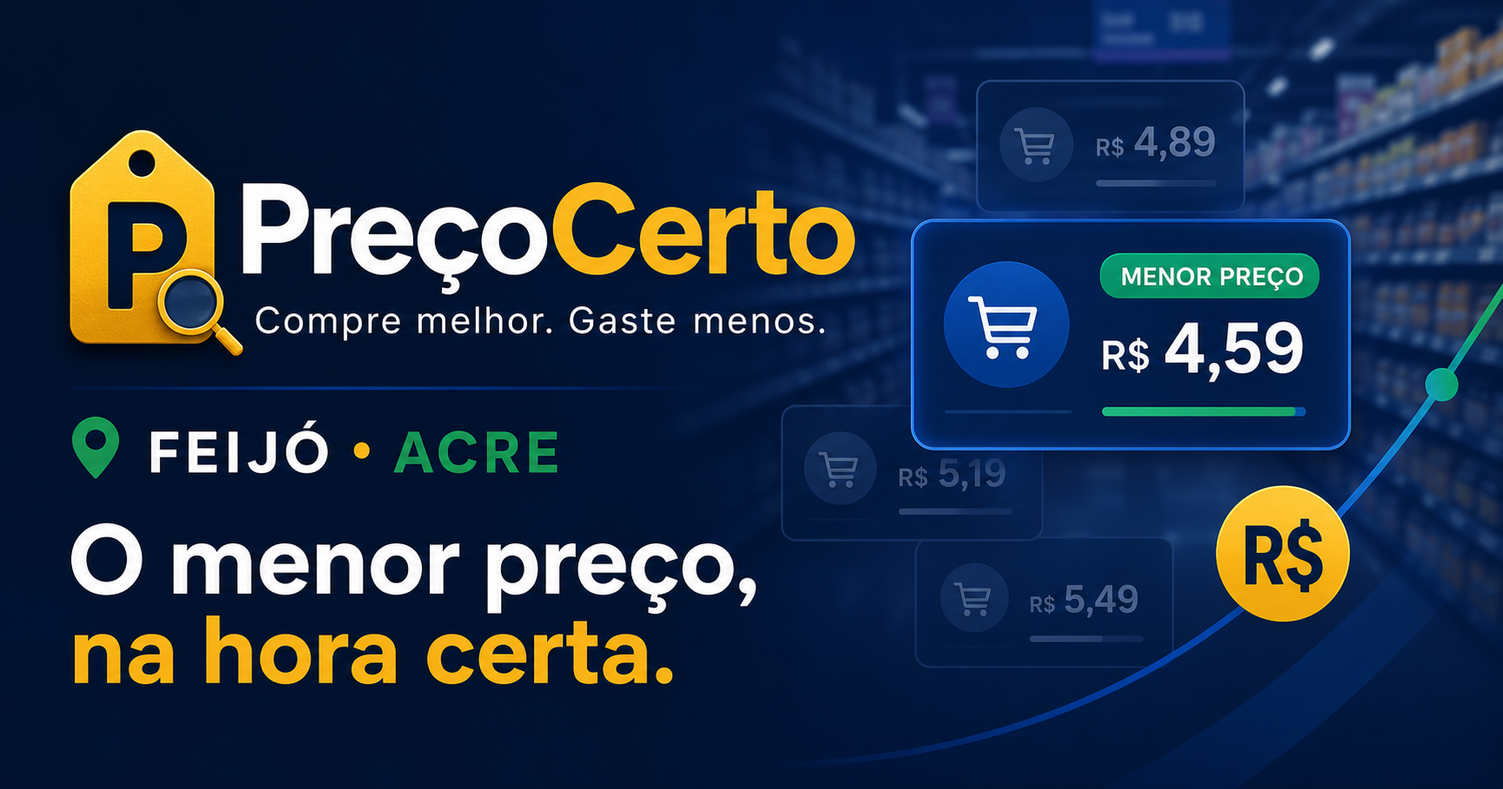
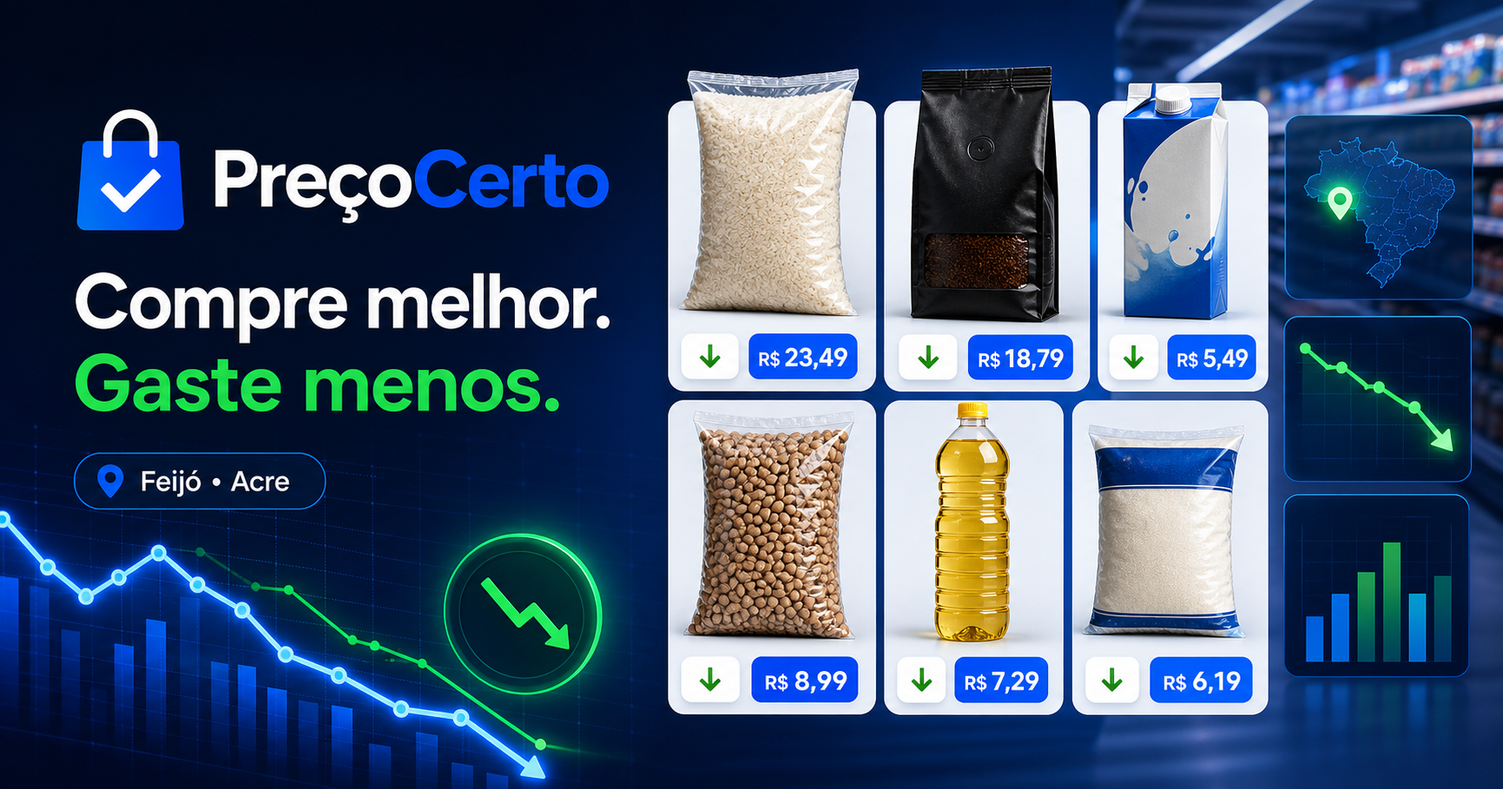
Transform PrecoCerto into product-first experience

diff --git a/app/PrecoCertoApp.tsx b/app/PrecoCertoApp.tsx
@@ -2,6 +2,8 @@
 
 /* Client-side route shells intentionally use standard anchors so direct links work across the complete catch-all route inventory. */
 /* eslint-disable @next/next/no-html-link-for-pages */
+/* Product photography is served locally and intentionally uses native img elements for the Vinext runtime. */
+/* eslint-disable @next/next/no-img-element */
 
 import {
   Activity, AlertTriangle, ArrowRight, BarChart3, Bell, Camera, Check, CheckCircle2,
@@ -56,6 +58,19 @@ const adminRouteNames: Record<string, string> = {
 
 function money(value: number) { return new Intl.NumberFormat("pt-BR", { style: "currency", currency: "BRL" }).format(value); }
 
+const productImages: Record<string, string> = {
+  "arroz-tio-joao-5kg": "/products/arroz-tio-joao-5kg.png",
+  "cafe-3-coracoes-500g": "/products/cafe-3-coracoes-500g.jpg",
+  "leite-italac-1l": "/products/leite-italac-1l.jpg",
+  "feijao-kicaldo-1kg": "/products/feijao-kicaldo-1kg.jpg",
+  "oleo-soja-liza-900ml": "/products/oleo-liza-900ml.jpg",
+  "acucar-uniao-1kg": "/products/acucar-uniao-1kg.jpg",
+};
+
+function ProductImage({ product, size = "default", eager = false }: { product: Product; size?: "compact" | "default" | "hero" | "basket"; eager?: boolean }) {
+  return <span className={`product-photo product-photo--${size}`}><img src={productImages[product.slug] ?? "/products/arroz-tio-joao-5kg.png"} alt={`Embalagem de ${product.name}`} loading={eager ? "eager" : "lazy"} /><i aria-hidden="true" /></span>;
+}
+
 function Brand({ compact = false, inverse = false }: { compact?: boolean; inverse?: boolean }) {
   return <a className={`brand ${inverse ? "brand--inverse" : ""}`} href="/" aria-label="PreçoCerto — página inicial">
     <span className="brand__mark" aria-hidden="true"><span>P</span><i /></span>
@@ -104,7 +119,9 @@ function PriceBadge({ product }: { product: Product }) {
 
 function HomePage({ products, stores, query, setQuery, addBasket, saveAction }: PageProps) {
   const [priceMode, setPriceMode] = useState<"recent" | "lowest">("recent");
+  const [featuredIndex, setFeaturedIndex] = useState(0);
   const rows = [...products].sort((a,b) => priceMode === "lowest" ? a.minPrice - b.minPrice : Date.parse(b.capturedAt) - Date.parse(a.capturedAt)).slice(0, 6);
+  const featured = products[featuredIndex] ?? products[0];
   return <>
     <section className="hero">
       <div className="hero-photo" /><div className="hero-wash" />
@@ -117,18 +134,18 @@ function HomePage({ products, stores, query, setQuery, addBasket, saveAction }: 
           <SearchBox value={query} setValue={setQuery} products={products} hero />
           <div className="hero-trust"><span><CheckCircle2 /> Preços verificados</span><span><Clock3 /> Atualização contínua</span><span><ShieldCheck /> Dados protegidos</span></div>
         </div>
-        <aside className="hero-radar" aria-label="Radar de preços atualizado">
-          <div className="radar-head"><span><Activity /> Radar PreçoCerto</span><em>ao vivo</em></div>
-          <div className="radar-summary"><small>Economia encontrada hoje</small><strong>até 14,8%</strong><span>comparando a mesma cesta em Feijó</span></div>
-          <div className="radar-list">{products.slice(0,3).map((product,index)=><a href={`/produto/${product.slug}`} key={product.id}><span className="radar-rank">0{index+1}</span><span><b>{product.name}</b><small>{product.establishment}</small></span><strong>{money(product.minPrice)}</strong></a>)}</div>
-          <a className="radar-link" href="/melhores-precos">Ver ranking completo <ArrowRight /></a>
+        <aside className="hero-radar hero-commerce" aria-label="Comparação interativa em destaque">
+          <div className="radar-head"><span><Activity /> Comparação inteligente</span><em>ao vivo</em></div>
+          {featured && <><div className="commerce-product"><ProductImage product={featured} size="hero" eager /><div className="commerce-copy"><span>{featured.category} • {featured.size}</span><h2>{featured.name}</h2><small><ShieldCheck /> preço verificado há 8 min</small></div></div><div className="commerce-prices"><div><small>Melhor preço</small><strong>{money(featured.minPrice)}</strong><span>em {featured.establishment}</span></div><div className="commerce-chart"><svg viewBox="0 0 250 72" role="img" aria-label="Tendência de preço em queda"><defs><linearGradient id="priceArea" x1="0" y1="0" x2="0" y2="1"><stop offset="0" stopColor="#54d69a" stopOpacity=".42"/><stop offset="1" stopColor="#54d69a" stopOpacity="0"/></linearGradient></defs><path d="M4 14 C28 18 35 30 58 27 S92 18 112 35 S146 50 168 41 S202 28 246 55 L246 70 L4 70 Z" fill="url(#priceArea)"/><path d="M4 14 C28 18 35 30 58 27 S92 18 112 35 S146 50 168 41 S202 28 246 55" fill="none" stroke="#65dfa8" strokeWidth="3" strokeLinecap="round"/><circle cx="246" cy="55" r="5" fill="#65dfa8" stroke="#08243a" strokeWidth="3"/></svg><span><TrendingDown /> caiu {money(Math.max(0,(featured.previousPrice ?? featured.maxPrice)-featured.minPrice))}</span></div></div><div className="commerce-actions"><button className="button button--gold" onClick={()=>addBasket(featured)}><Plus /> Adicionar à cesta</button><a href={`/produto/${featured.slug}`}>Ver comparação <ArrowRight /></a></div></>}
+          <div className="commerce-thumbs">{products.slice(0,4).map((product,index)=><button className={featuredIndex===index?"active":""} onClick={()=>setFeaturedIndex(index)} aria-pressed={featuredIndex===index} aria-label={`Destacar ${product.name}`} key={product.id}><ProductImage product={product} size="compact" /><span>{product.brand}<small>{money(product.minPrice)}</small></span></button>)}</div>
         </aside>
       </div>
     </section>
     <div className="shell metrics-float" aria-label="Métricas da plataforma"><div><span className="metric-icon"><PackageSearch /></span><strong>1.247</strong><span>produtos cadastrados</span></div><div><span className="metric-icon"><Activity /></span><strong>8.932</strong><span>preços monitorados</span></div><div><span className="metric-icon"><Store /></span><strong>{stores.length}</strong><span>estabelecimentos ativos</span></div><small><span /> Apuração hoje, às {new Date().toLocaleTimeString("pt-BR", {hour:"2-digit", minute:"2-digit"})}</small></div>
     <nav className="shell category-rail" aria-label="Atalhos de compra"><span>Explore por intenção</span><a href="/categoria/mercearia"><PackageSearch /> Mercearia <ArrowRight /></a><a href="/categoria/acougue"><TrendingDown /> Ofertas do dia <ArrowRight /></a><a href="/cesta-basica"><ShoppingBasket /> Cesta essencial <ArrowRight /></a><a href="/estabelecimentos"><Store /> Mercados locais <ArrowRight /></a></nav>
+    <section className="section shell featured-products"><div className="section-heading"><div><span className="eyebrow">Mais buscados em Feijó</span><h2>Produtos que valem comparar</h2><p>Embalagens reais, histórico recente e o melhor preço disponível agora.</p></div><a className="inline-link" href="/buscar">Explorar catálogo <ArrowRight /></a></div><div className="visual-product-grid">{products.slice(0,6).map((p,index)=><article className="visual-product-card" key={p.id}><button className="floating-favorite" onClick={()=>saveAction("favorite","product",String(p.id))} aria-label={`Favoritar ${p.name}`}><Heart /></button><a className="visual-product-image" href={`/produto/${p.slug}`}><span className="position-number">0{index+1}</span><ProductImage product={p} /><span className="verified-chip"><ShieldCheck /> Verificado</span></a><div className="visual-product-content"><span className="category-tag">{p.category} • {p.size}</span><a className="visual-product-name" href={`/produto/${p.slug}`}>{p.name}</a><div className="visual-store"><span className="market-dot" style={{background:p.storeColor}}/><span>{p.establishment}<small><MapPin /> {p.neighborhood}</small></span></div><div className="visual-price"><span><small>a partir de</small><strong>{money(p.minPrice)}</strong></span><span><small>média local</small><b>{money(p.avgPrice)}</b></span></div><div className="mini-trend"><svg viewBox="0 0 180 34" aria-hidden="true"><path d={`M2 ${9+index%3*3} C24 ${7+index}, 31 ${22-index}, 54 18 S86 ${8+index}, 108 20 S145 ${27-index},178 ${13+index}`} fill="none" stroke="currentColor" strokeWidth="2" strokeLinecap="round"/><circle cx="178" cy={13+index} r="3" fill="currentColor"/></svg><span><TrendingDown /> {Math.max(3,Math.round((1-p.minPrice/p.maxPrice)*100))}% abaixo do maior</span></div><div className="visual-product-actions"><button className="button button--primary" onClick={()=>addBasket(p)}><Plus /> Cesta</button><a href={`/produto/${p.slug}`}>Comparar <ArrowRight /></a></div></div></article>)}</div></section>
     <section className="section shell"><div className="section-heading"><div><span className="eyebrow">Economia pronta para você</span><h2>Cestas otimizadas</h2><p>Combinações que aproveitam o melhor preço de cada mercado de Feijó.</p></div><a className="inline-link" href="/cesta-basica">Ver todas as cestas <ArrowRight /></a></div><div className="basket-grid"><article className="basket-feature"><div className="basket-top"><span className="basket-icon"><ShoppingBasket /></span><PriceBadge product={products[0]} /></div><p>Cesta essencial da semana</p><h3>12 itens em 2 mercados</h3><div className="basket-total"><span>Valor otimizado</span><strong>{money(87.34)}</strong><small>economia estimada de {money(18.62)}</small></div><div className="store-route"><span><b style={{background: stores[0]?.color}}>CS</b> Central Super · 8 itens</span><span><b style={{background: stores[1]?.color}}>MR</b> Rebouças · 4 itens</span></div><a href="/cesta-basica" className="button button--dark">Abrir cesta otimizada <ArrowRight /></a></article><article className="basket-plan"><span className="eyebrow">Planejamento inteligente</span><h3>Quanto você quer gastar?</h3><p>Informe seu orçamento e montamos a melhor cesta possível, explicando cada escolha.</p><div className="budget-chips"><a href="/cesta-basica?orcamento=80">R$ 80</a><a href="/cesta-basica?orcamento=100">R$ 100</a><a href="/cesta-basica?orcamento=150">R$ 150</a><a href="/cesta-basica?orcamento=200">R$ 200</a></div><a href="/cesta-basica" className="inline-link">Montar minha cesta <ArrowRight /></a></article></div></section>
-    <section className="section section--soft"><div className="shell"><div className="section-heading"><div><span className="eyebrow">Agora em Feijó</span><h2>Preços em tempo real</h2><p>Compare registros recentes e encontre o menor preço com transparência.</p></div><div className="segmented"><button className={priceMode === "recent" ? "active" : ""} onClick={() => setPriceMode("recent")}>Recentes</button><button className={priceMode === "lowest" ? "active" : ""} onClick={() => setPriceMode("lowest")}>Menor preço</button></div></div><div className="price-table-card"><div className="price-table-head"><span>Produto</span><span>Mercado</span><span>Preço</span><span>Atualizado</span><span>Ação</span></div>{rows.map((p, index) => <div className="price-row" key={p.id}><div className="product-cell"><span className="product-thumb">{p.category.slice(0,1)}</span><span><a href={`/produto/${p.slug}`}>{p.name}</a><small>{p.brand} • {p.size}</small></span></div><div className="market-cell"><span className="market-dot" style={{background:p.storeColor}} /> <span>{p.establishment}<small>{p.neighborhood}</small></span></div><div><strong className="green-price">{money(p.minPrice)}</strong>{index < 3 && <PriceBadge product={p} />}</div><div><span className="freshness"><Clock3 /> há {8 + index * 7} min</span></div><div className="row-actions"><button onClick={() => saveAction("favorite", "product", String(p.id))} aria-label={`Favoritar ${p.name}`}><Heart /></button><button onClick={() => addBasket(p)} aria-label={`Adicionar ${p.name} à cesta`}><Plus /></button></div></div>)}<div className="table-footer"><a href="/buscar">Abrir catálogo completo <ArrowRight /></a><span><ShieldCheck /> Dados auditáveis e verificados</span></div></div></div></section>
+    <section className="section section--soft"><div className="shell"><div className="section-heading"><div><span className="eyebrow">Agora em Feijó</span><h2>Preços em tempo real</h2><p>Compare registros recentes e encontre o menor preço com transparência.</p></div><div className="segmented"><button className={priceMode === "recent" ? "active" : ""} onClick={() => setPriceMode("recent")}>Recentes</button><button className={priceMode === "lowest" ? "active" : ""} onClick={() => setPriceMode("lowest")}>Menor preço</button></div></div><div className="price-table-card"><div className="price-table-head"><span>Produto</span><span>Mercado</span><span>Preço</span><span>Atualizado</span><span>Ação</span></div>{rows.map((p, index) => <div className="price-row" key={p.id}><div className="product-cell"><ProductImage product={p} size="compact" /><span><a href={`/produto/${p.slug}`}>{p.name}</a><small>{p.brand} • {p.size}</small></span></div><div className="market-cell"><span className="market-dot" style={{background:p.storeColor}} /> <span>{p.establishment}<small>{p.neighborhood}</small></span></div><div><strong className="green-price">{money(p.minPrice)}</strong>{index < 3 && <PriceBadge product={p} />}</div><div><span className="freshness"><Clock3 /> há {8 + index * 7} min</span></div><div className="row-actions"><button onClick={() => saveAction("favorite", "product", String(p.id))} aria-label={`Favoritar ${p.name}`}><Heart /></button><button onClick={() => addBasket(p)} aria-label={`Adicionar ${p.name} à cesta`}><Plus /></button></div></div>)}<div className="table-footer"><a href="/buscar">Abrir catálogo completo <ArrowRight /></a><span><ShieldCheck /> Dados auditáveis e verificados</span></div></div></div></section>
     <section className="section shell"><div className="section-heading"><div><span className="eyebrow">Rede local</span><h2>Estabelecimentos monitorados</h2><p>Preço e disponibilidade perto de você, bairro por bairro.</p></div><a className="inline-link" href="/estabelecimentos">Ver diretório <ArrowRight /></a></div><div className="store-grid">{stores.map(store => <a className="store-card" href={`/estabelecimento/${store.slug}`} key={store.id}><span className="store-logo" style={{background:store.color}}>{store.name.split(" ").map(v=>v[0]).join("").slice(0,2)}</span><span><strong>{store.name}</strong><small><MapPin /> {store.neighborhood}</small></span><ChevronRight /></a>)}</div></section>
     <section className="section shell" id="como-funciona"><div className="benefit-grid"><article><span><ShieldCheck /></span><h3>Preços verificados</h3><p>Cada registro mostra mercado, horário e origem para você comprar com confiança.</p><a href="/precos">Entenda os dados <ArrowRight /></a></article><article><span><LineChart /></span><h3>Histórico de preços</h3><p>Veja a tendência e descubra se a promoção de hoje é realmente uma boa escolha.</p><a href="/tendencias">Ver tendências <ArrowRight /></a></article><article><span><ShoppingBasket /></span><h3>Cesta inteligente</h3><p>Compare uma loja só com a melhor combinação de mercados para toda a lista.</p><a href="/cesta-basica">Otimizar cesta <ArrowRight /></a></article></div></section>
     <section className="shell final-cta"><div><span className="eyebrow eyebrow--gold">Economia inteligente todos os dias</span><h2>Antes de comprar,<br/>compare com o PreçoCerto.</h2><p>Crie sua conta gratuita, salve listas e receba alertas quando o preço baixar.</p><a className="button button--gold" href="/cadastro">Criar minha conta gratuita <ArrowRight /></a></div><div className="cta-stat"><span>Economia potencial</span><strong>R$ 186,40</strong><small>média mensal em uma cesta familiar</small><div><TrendingDown /> −14,8% no custo estimado</div></div></section>

diff --git a/app/globals.css b/app/globals.css
@@ -233,3 +233,65 @@ h1,h2,h3,.brand__word b,.brand__word strong{font-family:"Manrope Variable",Manro
 @media(max-width:900px){.market-pulse span:nth-child(2),.market-pulse span:nth-child(3){display:none}.hero{height:700px}.hero-content{padding-top:75px}.hero h1{font-size:62px}.hero-radar{display:none}.hero-copy{max-width:760px}.category-rail{display:flex;overflow-x:auto;height:76px;scrollbar-width:none}.category-rail>span{min-width:140px}.category-rail a{min-width:190px}.metrics-float{margin-top:-46px}.section{padding-block:82px}.final-cta{padding:50px}.generic-hero{padding:42px}}
 @media(max-width:620px){.shell{width:min(100% - 24px,1360px)}.site-header{height:68px}.market-pulse{height:31px}.market-pulse .shell{font-size:7px}.market-pulse a{font-size:0}.market-pulse a:before{content:"Contribuir";font-size:7px}.hero{height:665px}.hero-content{padding-top:55px}.hero-live{margin-bottom:17px}.hero h1{font-size:47px;line-height:.94;margin-block:17px 21px}.hero-content .hero-copy>p{font-size:14px;line-height:1.65}.search-combo--hero form{min-height:61px;display:grid;grid-template-columns:auto 1fr}.search-combo form .button{grid-column:1/-1;width:100%}.hero-trust{gap:12px;flex-wrap:wrap}.hero-trust span{font-size:7px}.metrics-float{margin-top:-30px}.category-rail{margin-top:15px}.category-rail>span{display:none}.category-rail a{min-width:176px}.section{padding-block:70px}.section-heading>div{padding-left:14px}.section-heading h2{font-size:34px}.basket-grid>article{padding:26px}.basket-feature h3{font-size:25px}.final-cta{padding:42px 28px;min-height:430px}.cta-stat{width:100%}.generic-hero{padding:32px 26px}.generic-hero h1{font-size:36px}.page-shell{padding-block:42px 85px}.plan-grid article.featured,.plan-grid article.featured:hover{transform:none}.admin-main{padding-inline:14px}}
 @media(prefers-reduced-motion:reduce){.hero-photo,.market-pulse i,.hero-live i,.app main>*{animation:none!important}}
+
+/* Product-first experience — v4 */
+:root{--bg:#f3f6fb;--surface-2:#eaf0f7;--navy:#061c31;--blue:#086bf2;--blue-hover:#0059d5;--blue-soft:#e7f1ff;--gold:#ffc942;--gold-soft:#fff6d7;--green:#079460;--border:#d8e1ea;--shadow:0 24px 70px rgba(6,28,49,.12)}
+body{background:radial-gradient(circle at 78% 0,#e8f2ff 0,transparent 30%),var(--bg)}
+.section-heading>div{padding-left:0}.section-heading>div:before{display:none}
+.eyebrow{color:#086bf2;font-weight:900}.button{border-radius:10px;min-height:48px}.button--primary{background:linear-gradient(135deg,#0874ff,#0759d6);box-shadow:0 12px 28px rgba(8,107,242,.25)}
+.brand__mark{border-radius:10px;background:linear-gradient(145deg,#0874ff,#043c91);box-shadow:0 7px 18px rgba(8,91,200,.28)}.brand__mark:before{border-color:transparent #0867e7 transparent transparent}.brand__mark i,.brand__mark i:after{border-color:#ffd35d;background:#ffd35d}
+.site-header{background:rgba(255,255,255,.91);box-shadow:0 8px 32px rgba(6,28,49,.05)}
+.desktop-nav a:after{height:3px;border-radius:4px;background:#086bf2}.market-pulse{background:linear-gradient(90deg,#061c31,#0a355a)}
+
+.hero{height:700px;background:#061c31}
+.hero:before{content:"";position:absolute;width:620px;height:620px;border-radius:50%;background:#0874ff;filter:blur(140px);opacity:.18;left:30%;top:-330px;z-index:-1;pointer-events:none}
+.hero:after{background-image:linear-gradient(rgba(255,255,255,.035) 1px,transparent 1px),linear-gradient(90deg,rgba(255,255,255,.035) 1px,transparent 1px);background-size:54px 54px;opacity:.4}
+.hero-photo{background-position:center 63%;filter:saturate(.95) contrast(1.05) brightness(.82)}
+.hero-wash{background:linear-gradient(90deg,rgba(2,17,30,.98) 0%,rgba(3,23,41,.93) 42%,rgba(4,26,45,.61) 67%,rgba(4,24,42,.3)),linear-gradient(0deg,rgba(4,25,43,.92),transparent 42%)}
+.hero-content{padding-top:62px;grid-template-columns:minmax(0,1.12fr) minmax(420px,.88fr);gap:56px;align-items:start}
+.hero-copy{padding-top:24px}.hero-live{display:inline-flex;background:rgba(70,211,147,.1);border:1px solid rgba(83,220,159,.2);border-radius:99px;padding:8px 12px;margin-bottom:19px}
+.hero h1{font-size:clamp(54px,5vw,72px);line-height:.94;letter-spacing:-.058em;margin:17px 0 22px}.hero h1 span{color:#65adff}.hero h1 span:after{display:none}
+.hero-content .hero-copy>p{font-size:16px;max-width:600px;line-height:1.65;margin-bottom:27px}
+.search-combo--hero form{border-radius:14px;min-height:66px;border:0;box-shadow:0 24px 70px rgba(0,0,0,.38)}.search-combo .button{border-radius:9px}
+.hero-trust{font-size:8px;gap:20px}
+
+.hero-commerce{margin-top:19px;border-radius:18px;background:rgba(5,25,43,.88);border-color:rgba(151,200,240,.28);box-shadow:0 30px 90px rgba(0,0,0,.42),inset 0 1px rgba(255,255,255,.06);overflow:visible}
+.hero-commerce .radar-head{border-radius:18px 18px 0 0}.hero-commerce .radar-head svg{color:#55a8ff}
+.commerce-product{display:grid;grid-template-columns:135px 1fr;gap:18px;align-items:center;padding:20px 20px 8px}
+.commerce-copy>span{font-size:8px;text-transform:uppercase;letter-spacing:1.3px;color:#7fa1bb;font-weight:800}.commerce-copy h2{color:#fff;font-size:19px;line-height:1.18;margin:6px 0 9px}.commerce-copy small{display:flex;align-items:center;gap:5px;color:#72dca9;font-size:8px}.commerce-copy small svg{width:12px}
+.product-photo{display:grid;place-items:center;position:relative;background:linear-gradient(145deg,#fff,#f2f6fa);border:1px solid #d8e2e9;overflow:hidden;isolation:isolate;flex:0 0 auto}
+.product-photo:before{content:"";position:absolute;width:80%;height:28%;border-radius:50%;background:rgba(8,107,242,.12);filter:blur(18px);bottom:-5%;z-index:-1}
+.product-photo img{width:86%;height:86%;object-fit:contain;mix-blend-mode:multiply;transition:transform .32s cubic-bezier(.2,.7,.2,1)}
+.product-photo i{position:absolute;inset:7px;border:1px solid rgba(8,107,242,.09);pointer-events:none}
+.product-photo--hero{width:135px;height:150px;border-radius:14px;box-shadow:0 16px 35px rgba(0,0,0,.22)}.product-photo--hero i{border-radius:8px}.product-photo--default{width:100%;height:100%;border:0;background:transparent}.product-photo--default i{display:none}.product-photo--compact{width:48px;height:48px;border-radius:9px}.product-photo--basket{width:54px;height:54px;border-radius:10px}
+.commerce-prices{display:grid;grid-template-columns:1fr 1.25fr;gap:20px;padding:14px 20px}.commerce-prices>div:first-child{display:grid}.commerce-prices small{font-size:8px;text-transform:uppercase;letter-spacing:1px;color:#7fa1bb}.commerce-prices strong{font:760 28px/1.2 "Manrope Variable";color:#fff}.commerce-prices>div:first-child span{font-size:8px;color:#9ab0c0}
+.commerce-chart svg{width:100%;height:50px;display:block}.commerce-chart>span{display:flex;gap:5px;align-items:center;color:#68daa6;font-size:8px}.commerce-chart>span svg{width:12px;height:12px}
+.commerce-actions{display:flex;align-items:center;gap:17px;padding:3px 20px 18px}.commerce-actions .button{min-height:42px;font-size:9px;flex:1}.commerce-actions>a{font-size:9px;color:#a9caed;font-weight:800;display:flex;gap:5px;align-items:center}.commerce-actions>a svg{width:13px}
+.commerce-thumbs{display:grid;grid-template-columns:repeat(4,1fr);gap:1px;background:rgba(255,255,255,.1);border-radius:0 0 18px 18px;overflow:hidden}
+.commerce-thumbs button{min-width:0;border:0;background:#0a2c49;color:#fff;padding:8px;display:flex;align-items:center;gap:6px;text-align:left;transition:.2s ease}.commerce-thumbs button:hover,.commerce-thumbs button.active{background:#10436d}.commerce-thumbs button.active{box-shadow:inset 0 -3px #ffc942}.commerce-thumbs .product-photo{width:32px;height:35px;border-radius:6px}.commerce-thumbs span{min-width:0;font-size:7px;font-weight:800;overflow:hidden}.commerce-thumbs small{display:block;color:#6edfac;font-size:7px}
+.hero-commerce:hover .product-photo--hero img{transform:scale(1.06) rotate(-1.5deg)}
+
+.metrics-float{border-radius:16px}.metric-icon{border-radius:10px!important}.category-rail a{border-radius:9px;margin:0 4px;border-left:0;background:rgba(255,255,255,.62);box-shadow:inset 0 0 0 1px #d8e1ea}.category-rail a:hover{background:#fff;box-shadow:0 10px 25px rgba(6,28,49,.07)}
+.featured-products{padding-top:86px;padding-bottom:110px}
+.visual-product-grid{display:grid;grid-template-columns:repeat(3,1fr);gap:16px}
+.visual-product-card{background:#fff;border:1px solid #d7e1e9;border-radius:18px;overflow:hidden;position:relative;box-shadow:0 12px 35px rgba(6,28,49,.055);transition:transform .28s cubic-bezier(.2,.7,.2,1),box-shadow .28s ease,border-color .28s ease}
+.visual-product-card:hover{transform:translateY(-7px);border-color:#9bc3ef;box-shadow:0 28px 65px rgba(6,28,49,.13)}
+.floating-favorite{position:absolute;right:14px;top:14px;z-index:3;width:38px;height:38px;border-radius:12px;border:1px solid #dbe4eb;background:rgba(255,255,255,.92);color:#60717f;display:grid;place-items:center;backdrop-filter:blur(10px);transition:.2s ease}.floating-favorite svg{width:17px}.floating-favorite:hover{background:#ffeff2;color:#e54860;border-color:#ffc4cf;transform:scale(1.08)}
+.visual-product-image{height:235px;display:block;position:relative;background:radial-gradient(circle at 50% 52%,#e9f3ff 0,#f7faff 54%,#eef4f9 100%);overflow:hidden}
+.visual-product-image .product-photo{width:100%;height:100%;background:transparent;border:0}.visual-product-image .product-photo img{width:68%;height:75%}.visual-product-card:hover .visual-product-image img{transform:scale(1.07) translateY(-3px)}
+.position-number{position:absolute;left:15px;top:14px;z-index:2;font:800 10px/1 "Manrope Variable";color:#9babb6;letter-spacing:1px}.verified-chip{position:absolute;left:14px;bottom:13px;z-index:2;background:rgba(255,255,255,.92);border:1px solid #cfe7da;color:#078250;border-radius:99px;padding:6px 9px;display:flex;align-items:center;gap:4px;font-size:7px;font-weight:850;text-transform:uppercase;letter-spacing:.5px}.verified-chip svg{width:11px}
+.visual-product-content{padding:20px}.visual-product-name{display:block;font:720 17px/1.25 "Manrope Variable";color:var(--navy);margin:5px 0 13px}.visual-store{display:flex;align-items:center;gap:8px;padding-bottom:14px;border-bottom:1px solid #e3e9ee;font-size:9px;font-weight:750}.visual-store>span:last-child small{display:flex;align-items:center;gap:3px;color:var(--muted);font-weight:500}.visual-store small svg{width:10px}.visual-price{display:flex;justify-content:space-between;align-items:end;margin:15px 0 8px}.visual-price>span{display:grid}.visual-price small{font-size:7px;color:var(--muted);text-transform:uppercase;letter-spacing:.8px}.visual-price strong{font:790 24px/1.15 "Manrope Variable";color:#078250}.visual-price b{font:700 13px/1.2 "Manrope Variable";color:#51616d}
+.mini-trend{height:39px;display:flex;align-items:center;gap:9px;color:#078250}.mini-trend svg{width:105px;height:30px;flex:0 0 auto}.mini-trend span{font-size:8px;display:flex;align-items:center;gap:3px}.mini-trend span svg{width:11px;height:11px}.visual-product-actions{display:flex;align-items:center;gap:14px;margin-top:12px}.visual-product-actions .button{min-height:42px;padding-inline:15px;font-size:9px}.visual-product-actions>a{margin-left:auto;font-size:9px;font-weight:850;color:#155a9a;display:flex;gap:5px;align-items:center}.visual-product-actions>a svg{width:13px;transition:.2s ease}.visual-product-actions>a:hover svg{transform:translateX(3px)}
+
+.price-row .product-photo{width:54px;height:58px;border-radius:10px}.price-row:hover .product-photo img{transform:scale(1.08)}
+.result-card .product-visual,.compact-product .product-visual{color:transparent;background-color:#fff;background-position:center;background-size:contain;background-repeat:no-repeat;border-radius:9px}
+.result-card:nth-child(1) .product-visual,.compact-product:nth-of-type(1) .product-visual{background-image:url('/products/arroz-tio-joao-5kg.png')}.result-card:nth-child(2) .product-visual,.compact-product:nth-of-type(2) .product-visual{background-image:url('/products/cafe-3-coracoes-500g.jpg')}.result-card:nth-child(3) .product-visual,.compact-product:nth-of-type(3) .product-visual{background-image:url('/products/leite-italac-1l.jpg')}.result-card:nth-child(4) .product-visual,.compact-product:nth-of-type(4) .product-visual{background-image:url('/products/feijao-kicaldo-1kg.jpg')}.result-card:nth-child(5) .product-visual{background-image:url('/products/oleo-liza-900ml.jpg')}.result-card:nth-child(6) .product-visual{background-image:url('/products/acucar-uniao-1kg.jpg')}
+.result-card{grid-template-columns:30px 70px 1.6fr 1fr .7fr auto}.result-card .product-visual{width:70px;height:76px}.result-card:hover .product-visual{box-shadow:0 9px 24px rgba(6,28,49,.1)}
+.basket-items button{min-height:74px;position:relative;padding:10px 42px 10px 72px}.basket-items button:before{content:"";position:absolute;left:9px;top:9px;width:54px;height:54px;border:1px solid #dce5eb;border-radius:10px;background:#fff center/contain no-repeat}.basket-items button:nth-child(1):before{background-image:url('/products/arroz-tio-joao-5kg.png')}.basket-items button:nth-child(2):before{background-image:url('/products/cafe-3-coracoes-500g.jpg')}.basket-items button:nth-child(3):before{background-image:url('/products/leite-italac-1l.jpg')}.basket-items button:nth-child(4):before{background-image:url('/products/feijao-kicaldo-1kg.jpg')}.basket-items button:nth-child(5):before{background-image:url('/products/oleo-liza-900ml.jpg')}.basket-items button:nth-child(6):before{background-image:url('/products/acucar-uniao-1kg.jpg')}.basket-items button>span{position:absolute;right:9px;width:26px;height:26px}.basket-items button:hover:before{transform:scale(1.04)}
+.basket-builder,.basket-summary,.result-hero,.filter-sidebar,.generic-main,.admin-card{box-shadow:0 15px 40px rgba(6,28,49,.055)}
+.result-hero{background:linear-gradient(135deg,#fff,#eaf3ff);border-radius:16px}.analytics-grid article,.result-card,.basket-builder,.basket-summary,.plan-grid article,.generic-main,.generic-aside,.admin-card{border-radius:14px}.generic-hero{border-radius:18px;background:radial-gradient(circle at 82% 20%,rgba(8,116,255,.5),transparent 28%),linear-gradient(125deg,#04182b,#083c69)}
+.benefit-grid article,.basket-grid>article,.final-cta,.dashboard-preview{border-radius:18px}.section-heading h2{font-weight:750}.section-heading p{font-size:14px}
+
+@media(max-width:1180px){.hero-content{grid-template-columns:1fr 390px;gap:30px}.hero h1{font-size:58px}.visual-product-grid{grid-template-columns:repeat(2,1fr)}}
+@media(max-width:900px){.hero{height:670px}.hero-content{display:block}.hero-copy{padding-top:0}.hero-commerce{display:none}.visual-product-grid{grid-template-columns:repeat(2,1fr)}.result-card{grid-template-columns:30px 62px 1fr auto}.result-card .product-visual{width:62px;height:66px}}
+@media(max-width:620px){.hero{height:650px}.hero h1{font-size:45px}.featured-products{padding-top:58px}.visual-product-grid{grid-template-columns:1fr}.visual-product-image{height:220px}.result-card{grid-template-columns:24px 58px 1fr auto}.result-card .product-visual{display:block!important;width:58px;height:62px}.basket-items{grid-template-columns:1fr}.price-row .product-photo{width:48px;height:52px}.category-rail a{border-radius:8px}}

diff --git a/app/layout.tsx b/app/layout.tsx
@@ -16,8 +16,8 @@ export async function generateMetadata(): Promise<Metadata> {
     applicationName: "PreçoCerto",
     keywords: ["preços", "Feijó", "Acre", "supermercados", "economia", "cesta básica"],
     icons: { icon: "/favicon.png", apple: "/favicon.png" },
-    openGraph: { title: "PreçoCerto — Economia Real em Feijó", description: "Antes de comprar, compare com o PreçoCerto.", locale: "pt_BR", type: "website", images: [{ url: `${origin}/og-premium-v3.png`, width: 1733, height: 909, alt: "PreçoCerto — Compre melhor. Gaste menos." }] },
-    twitter: { card: "summary_large_image", title: "PreçoCerto", description: "O menor preço, na hora certa.", images: [`${origin}/og-premium-v3.png`] },
+    openGraph: { title: "PreçoCerto — Economia Real em Feijó", description: "Antes de comprar, compare com o PreçoCerto.", locale: "pt_BR", type: "website", images: [{ url: `${origin}/og.png`, width: 1733, height: 909, alt: "PreçoCerto — Compre melhor. Gaste menos." }] },
+    twitter: { card: "summary_large_image", title: "PreçoCerto", description: "O menor preço, na hora certa.", images: [`${origin}/og.png`] },
     robots: { index: true, follow: true },
   };
 }
